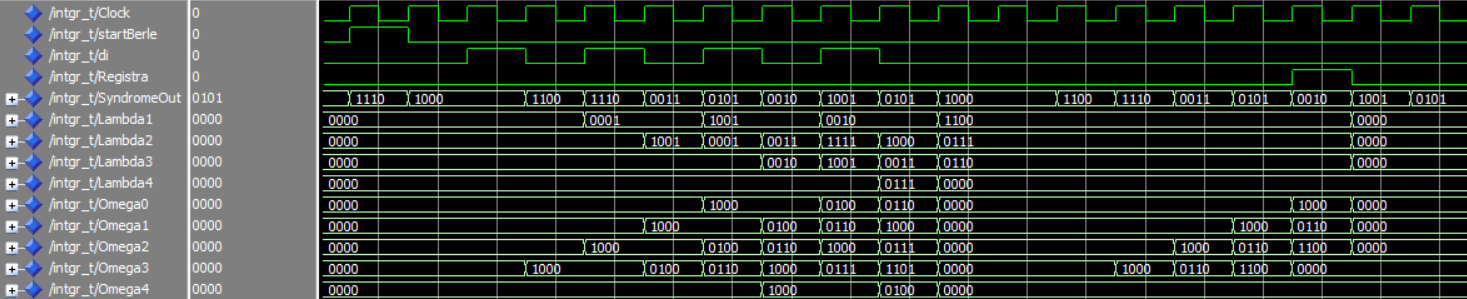
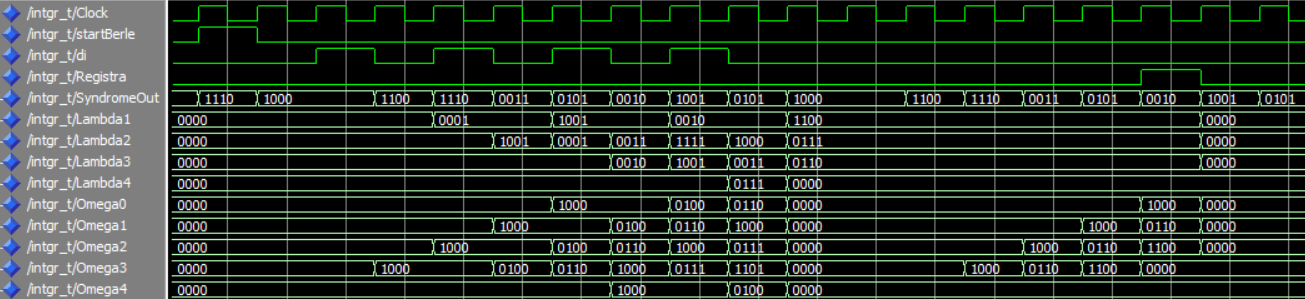
Trimmed all simulations, fixed all wrong doings in the world, wrote viterbi and conv execution

Changed region(s): [[0.0, 0.0, 1.0, 1.0], [0.7356, 0.6622, 0.9502, 0.9331]]

diff --git a/Documentos/relatorio/licy-execucao.tex b/Documentos/relatorio/licy-execucao.tex
@@ -125,21 +125,38 @@
 	
 	\subsection{Codificador Convolucional}	
 	
+	O codificador convolucional foi baseado no esquema corrigido da norma em \autoref{figure:convolutional-schematics}, com seis registradores representando a janela deslizante e o \textit{exclusive OR} dos geradores polinomiais.
 	
+	Nesse módulo, existe uma grande diferença da vazão da mensagem do \textit{Interleaver} com a vazão suportada pelo Codificador Convolucional. A figura \autoref{figure:integration-encoder} mostra que o entrelaçador fornece 4 \textit{bits}/clock enquanto o convolucional apenas consome 1 \textit{bit}/clock. Essa diferença foi tratada utilizando um módulo chamado PISO (Parallel Input to Serial Output), que transforma os dados paralelos em seriais, desde que o \textit{clock} do convolucional seja mais rápido. Mais detalhes com relação a integração entre componentes do codificador na \autoref{section:execution-integration-encoder-speeds}.
+
+	Ainda existe outro módulo que insere uma cadeia de 6 \textit{bits} zeros entre o cabeçalho e a mensagem. Isso reinicia o Convolucional, garantindo que o estado inicial seja "000000", estado conhecido posterior decodificação. A implementação é simples: processa as 30 primeiras palavras e depois envia os zeros via um registrador de deslocamento.
 	
-	O convolutional encoder foi implementado a partir de seis registradores representando a janela deslizante mencionada na metodologia e xor dos valores dos geradores polinomiais.
-	Vale mencionar que existe um tratamento específico dos dados que saem do interleaver antes de entrar no convolutional encoder que consiste em dois módulos. Um módulo lida com o fato de que o interleaver tem saída de palavra por palavra, ou seja, de quatro em quatro bits e a entrada do convolutional encoder deve ser bit por bit. Ele transforma os dados de paralelos para seriais.
-	O outro módulo insere uma cadeia de 6 bits zeros entre o header e o interleaver. Garantindo que o estado inicial conhecido seja “000000” para os dados serem posteriormente decodificados. Esse módulo conta as 30 (tamanho do header) primeiras palavras recebidas. Após atingir o fim do header a entrada começa a passar por um registrador de deslocamento de 6 bits inicialmente zerado.
+	\subsubsection{\textit{Puncture}}
 	
-	Puncture:
+	Para realizar o \textit{puncture} de $\frac{1}{4}$ o valor A é mantido pelo tempo equivalente a dois \textit{clocks} do próximo módulo e o valor de B por mais dois \textit{clocks}. Seguindo o especificado na metodologia.
 	
-	Para realizar o puncture de $\frac{1}{4}$ o valor A é mantido pelo tempo equivalente a dois clocks do próximo módulo e o valor de B por mais dois \textit{}. Seguindo o que foi especificado na metodologia.
+	A simulação de todas operações descritas encontra-se abaixo:
+	
+	\begin{figure}[h]
+		\caption{\label{figure:convolutional-simulation}Simulação do Codificador Convolucional. Nota-se a forma que ele serializa os dados do \textit{Interleaver} em ccEncoderInput antes de utilizá-los, para gerar a saída em ccEncoderOutput.}
+		\centering
+		\includegraphics[width=1\textwidth]{convolutional/simulation.png}
+		\legend{Fonte: Autores.}
+	\end{figure}
 	
 	\subsection{Codificador Manchester}
 	
-	A arquitetura da codificação de Manchester segue o mesmo modelo explicado na Metologia. Duas entradas: \textit{clock} e mensagem, recebem a operação lógica XOR e retornam o código.
+	A arquitetura da codificação de Manchester segue o mesmo modelo explicado na Metologia. Duas entradas: \textit{clock} e mensagem, recebem a operação lógica XOR e retornam o código. A simulação do componente está abaixo:
 	
-	\subsection{Integração do Codificador}
+	\begin{figure}[h]
+		\caption{\label{figure:manchester-encoder-simulation}Simulação do Codificador Manchester.}
+		\centering
+		\includegraphics[width=0.6\textheight]{manchester/simulation-encoder.png}
+		\legend{Fonte: Autores.}
+	\end{figure}
+	
+	
+	\subsection{Integração do Codificador}\label{section:execution-integration-encoder-speeds}
 	
 	Com exceção da UART, o projeto teve o
 	Com intuito de evitar a utilização de \textit{buffers} entre os componentes, 
@@ -206,17 +223,41 @@
 		\includegraphics[width=0.4\textheight]{manchester/decoder-flow.pdf}
 		\legend{Fonte: Autores.}
 	\end{figure}
-	
+
+	A simulação do componente encontra-se abaixo na \autoref{figure:manchester-decoder-simulation}, e a arquitetura implementada no programa Altera Quartus no Apêndice na \autoref{figure:manchester-decoder-rtl}.
+
+	\begin{figure}[h]
+		\caption{\label{figure:manchester-decoder-simulation}Simulação do Decodificador Manchester.}
+		\centering
+		\includegraphics[width=0.6\textheight]{manchester/simulation-decoder.png}
+		\legend{Fonte: Autores.}
+	\end{figure}
 	
 	\subsection{Decodificador Viterbi Fangled}
 	
-	Os dados são transformados de seriais paralelos de 4 em 4 para encaixarem com a entrada do fangled viterbi decoder
-	Para decodificação dos dados fornecidos pelo codificador convolucional foi utilizado o fangled  viterbi decoder. Ele é uma versão simplificada do viterbi decoder. Utiliza menos memória, e menos processamento, é mais veloz porém tem capacidade de detecção e correção de erro muito menor. A capacidade de correção de erro é de um bit a cada quatro dado que o puncture do convolutional é de $\frac{1}{4}$.
-	Branch Metrics: A entrada é composta por AABB. Calcula-se a distância entre o primeiro A com o primeiro B e todas as possíveis combinações de bits (00, 01, 10, 11). A distância é calculada do mesmo modo para o segundo A e o segundo B recebidos. Isso foi feito a partir da operação xor entre a entrada e as combinações. As distâncias de uma mesma combinação de bits é posteriormente somada.
-	Trellis Table: Dado o estado atual, é um look up table que os dois valores possíveis de entrada pro viterbi. Uma delas é caso o bit que foi codificado fosse um e o outro caso é se ele fosse zero.
-	Path Metrics: O path metrics recebe a informação de quais as duas possíveis entradas do Trellis Table e quais as distâncias do branch metrics. Com esses dados o path metrics identifica qual o bit mais provável de ter sido codificado. Definindo, assim, qual o próximo estado e a saída do viterbi decoder. 
-	O valor do próximo estado é armazenado para ser posteriormente utilizado pelo Trellis Table.
-	Caso as distâncias a serem consideradas forem iguais, o valor da saída é escolhido como sendo zero e o próximo estado é definido de acordo com isso. Segue-se a ideia do fangled viterbi decoder que escolhe uma saída, e consequentemente o próximo estado, ao acaso. 
+	O Decodificador Viterbi tem o mesmo problema do Codificador Convolucional: as vazões de entrada e saída são diferentes. Deve-se então converter dados seriais para paralelos utilizando um módulo SIPO (Serial Input Parallel Output). Os \textit{clocks} também devem ser ajustados de acordo. Mais detalhes com relação a integração entre componentes do decodificador na \autoref{section:execution-integration-decoder-speeds}.
+	
+	Como especificado na metodologia (\autoref{section:method-viterbi}), a implementação Viterbi utilizada é simplificada e se chama \textit{Fangled}. Consome menos memória e processamento e é mais veloz, porém tem capacidade de detecção e correção de erro muito menor. O \textit{Fangled} Viterbi corrige no mínimo um \textit{bit} a cada quatro recebidos, devido à sua arquitetura de taxa $\frac{1}{4}$.
+
+	\subsubsection{\textit{Branch Metrics}}
+	A entrada é composta por AABB. Calcula-se a distância entre o primeiro A com o primeiro B e todas as possíveis combinações de bits (00, 01, 10, 11). A distância é calculada do mesmo modo para o segundo A e o segundo B recebidos. A operação feita entre os dados é XOR. As distâncias de uma mesma combinação de bits é posteriormente somada.
+	
+	\subsubsection{Tabela Trellis}
+	Dado o estado atual, é uma LUT (\textit{Look Up Table}) com dois valores possíveis de entrada para o Viterbi. Possui duas saídas para cada entrada: uma quando o \textit{bit} é um e outra quando o \textit{bit} é zero.
+	
+	\subsubsection{\textit{Path Metrics}}
+	O PM (\textit{Path Metrics}) recebe a informação de quais são as duas possíveis entradas da Tabela Trellis e quais as distâncias do \textit{Branch Metrics}. Com esses dados o PM identifica qual o bit mais provável de ter sido codificado. Definindo assim, qual o próximo estado e a saída do decodificador Viterbi. O valor do próximo estado é armazenado para ser posteriormente utilizado pela Tabela Trellis.
+	
+	Caso as distâncias consideradas forem iguais, o valor da saída é escolhido como sendo zero e o próximo estado é definido de acordo. No caso do \textit{Fangled} Viterbi, essa escolha deverá ser realizada ao acaso.
+	
+	A simulação do módulo de decodificação Viterbi \textit{Fangled} se encontra na \autoref{figure:viterbi-simulation} abaixo. A arquitetura do componente RTL encontra-se no Apêndice, na \autoref{figure:viterbi-rtl}.
+	
+	\begin{figure}[h]
+		\caption{\label{figure:viterbi-simulation}Simulação do funcionamento do Decodificador Viterbi \textit{Fangled}. Observa-se que o componente apenas conclui qual o símbolo recebido após quatro ciclos.}
+		\centering
+		\includegraphics[width=0.6\textheight]{viterbi/simulation.png}
+		\legend{Fonte: Autores.}
+	\end{figure}
 	
 	
 	\subsection{Decodificador Reed Solomon}
@@ -289,9 +330,9 @@
 		\legend{Fonte: Autores.}
 	\end{chart}
 	
-	\subsection{Integração do Decodificador}
+	\subsection{Integração do Decodificador}\label{section:execution-integration-decoder-speeds}
 	%FAZER INTEGRACAO DO DECODIFICADOR
-
+	
 	\begin{figure}[h]
 		\caption{\label{figure:integration-decoder}Relação entre vazão de \textit{bits} entre cada módulo do Decodificador.}
 		\centering
@@ -359,14 +400,14 @@
 	Devido a falta de conhecimento do comportamento de transistores e da resposta de todos os componentes a frequência de 200kHz, foram projetados vários circuitos que não satisfaziam o formato de onda desejado. Abaixo são exemplificadas algumas versões implementadas, juntamente com os motivos de terem sido abandonadas.
 	
 	\subsubsection{Filtro da Ponta de Prova}
-	\begin{figure}[htb]
+	\begin{figure}[h]
 		\caption{\label{fig_transmitter_lify_circuit_fail0}Circuito de transmissão com filtro de ponta de prova.}
 		\centering		%  trim={<left> <lower> <right> <upper>} 
 		\includegraphics[width=0.5\textwidth, trim={2cm 1cm 2cm 2cm}, clip]{circuits/transmitter_fail0.pdf}
 		\legend{Fonte: Autores.}
 	\end{figure}
 	O primeiro problema que o projeto do transmissor encontrou foi o comportamento de subamortecimento nos terminais do LED. Ele utiliza um circuito semelhante ao utilizado em pontas de provas para filtrar ruídos e é conectado em série com a entrada do transmissor, como visto na \autoref{fig_transmitter_lify_circuit_fail0}.
-	\begin{chart}[htb]
+	\begin{chart}[h]
 		\caption{\label{fig_transmitter_lify_circuit_fail0_rl}Comportamento do circuito de transmissão com filtro de ponta de prova em série com a entrada. A onda azul é saída do gerador de funções enquanto a onda amarela é a tensão submetida ao LED. Observa-se o comportamento de subamortecimento em ambas.}
 		\centering		%  trim={<left> <lower> <right> <upper>} 
 		\includegraphics[width=0.5\textwidth, trim={30cm 0cm 2cm 40cm}, clip]{circuits/photos/TX_probe_result.jpg}
@@ -426,7 +467,7 @@
 	\subsection{Recepção Luminosa}
 	Para o recebimento luminoso, foi utilizado um circuito da "Application Notes" da \cite{datasheet-opa380}, simplificado e esquematizado na \autoref{fig_transimpedance_amp_complex_outer}, diferente do utilizado na Metodologia (\autoref{figure:transimpedance-amp-simple}). Com $V_{bias} = 2.5V$ polarizando reversamente o fotodiodo, uma resposta mais confiável era recebida pelo componente. O valor escolhido de R1 e R2 foram  1M$\Omega$ e 100k$\Omega$.
 	
-	\begin{figure}[htb]
+	\begin{figure}[h]
 		\caption{\label{fig_transimpedance_amp_complex_outer}Circuito e saída de um amplificador de impedâncias. No circuito, o fotodiodo é reversamente polarizado por $V_{bias}$. No osciloscópio, a saída está marcada em amarelo enquanto a saída do LED está em verde.}
 		\begin{subfigure}{.5\textwidth}
 			\centering
@@ -453,7 +494,7 @@
 	
 	A voltagem de referência do comparador deve ser a mesma que a voltagem $V_{ref}$ do filtro passa-baixas, provenientes do divisor resistivo. O circuito final integrado do receptor pode é analisado na \autoref{fig_receiver_lify_circuit_final}.
 
-	\begin{figure}[htb]
+	\begin{figure}[h]
 		\caption{\label{fig_receiver_lify_circuit_final}Circuito esquemático final de recepção de dados LiCy.}
 		\centering
 		\includegraphics[width=0.7\textwidth, trim={0cm 1cm 0cm 1cm}, clip]{circuits/receiver_lify_final.pdf}
@@ -462,7 +503,7 @@
 	
 	Os testes realizados foram bem sucedidos e resultaram na onda da \autoref{fig_receiver_lify_circuit_final_r1}. Nela é possível observar a medição do período da onda resultante convertida, que foi 4.88us, muito próximo de 5us, período para 200kHz.
 	
-	\begin{chart}[htb]
+	\begin{chart}[h]
 		\caption{\label{fig_receiver_lify_circuit_final_r1}Saída do transmissor em verde e saída digital convertida do receptor em amarelo. É possível observar uma defasagem de 90$\degree$ em relação às ondas.}
 		\centering
 		\includegraphics[width=0.4\textwidth, trim={36cm 30cm 60cm 40cm}, clip]{circuits/photos/TXRX_final_fixed.jpg}

diff --git a/Documentos/relatorio/licy-metodologia.tex b/Documentos/relatorio/licy-metodologia.tex
@@ -287,7 +287,7 @@
 	
 	\subsubsection{Código Convolutional}
 	
-	O módulo de código convolucional é um código de correção de erros que converte a mensagem em símbolos de paridade. Ele se utiliza de uma janela deslizante para receber e armazenar uma parte dos dados de entrada. Alguns subgrupos de \textit{bits} dentro da janela, definidos pelos geradores polinomiais, são utilizados para gerar os \textit{bits} de paridade. A operação de \textit{exclusive or} entre os \textit{bits} de um subgrupo gera um \textit{bit} de paridade. A norma define os parâmetros do código na \autoref{tabela_params_convolutional} de acordo com a camada PHY I. 
+	O módulo de código convolucional é um código de correção de erros que converte a mensagem em símbolos de paridade. Ele se utiliza de uma janela deslizante para receber e armazenar uma parte dos dados de entrada. Alguns subgrupos de \textit{bits} dentro da janela, definidos pelos geradores polinomiais, são utilizados para gerar os \textit{bits} de paridade. A operação de \textit{exclusive or} entre os \textit{bits} de um subgrupo gera um \textit{bit} de paridade. A norma define os parâmetros do código na \autoref{table:convolutional-params} de acordo com a camada PHY I. 
 	
 	\begin{table}[ht]
 		\caption{Parâmetros do Código Convolucional da camada PHY I.}
@@ -299,27 +299,27 @@
 			R & 1/4 & taxa de \textit{bits} / paridade \\ 
 			G & $g_{0} = 133_{8}$; $g_{1} = 171_{8}$; $g_{2} = 165_{8}$ & polinômio gerador \\ \hline
 		\end{tabular}
-		\label{tabela_params_convolutional}
+		\label{table:convolutional-params}
 		\legend{Fonte: Autores.}
 	\end{table}
 
-	No documento da norma há uma figura que especifica a implementação do codificador. Estudando-a em detalhes, foram encontrados erros na figura, pois os \textit{bits} utilizados para gerar as paridades eram extraídos de geradores polinomiais errados. A \autoref{schematics_convolutional} esquematiza um codificador com os polinômios corrigidos. A cada \textit{bit} $X_{n}$ de entrada, o código convolucional gera três paridades: $A_{0}$, $B_{0}$ e $C_{0}$, por isso 1/3.
+	No documento da norma há uma figura que especifica a implementação do codificador. Estudando-a em detalhes, foram encontrados erros na figura, pois os \textit{bits} utilizados para gerar as paridades eram extraídos de geradores polinomiais errados. A \autoref{figure:convolutional-schematics} esquematiza um codificador com os polinômios corrigidos. A cada \textit{bit} $X_{n}$ de entrada, o código convolucional gera três paridades: $A_{0}$, $B_{0}$ e $C_{0}$, por isso 1/3.
 	\begin{figure}[htb]
-		\caption{\label{schematics_convolutional}Esquemático do Codificador Convolucional com taxa 1/3, os quadrados representam registradores e os retângulos os somadores.}
+		\caption{\label{figure:convolutional-schematics}Esquemático do Codificador Convolucional com taxa 1/3, os quadrados representam registradores e os retângulos os somadores.}
 		\centering
 		\includegraphics[width=0.6\textheight]{convolutional/schematics.pdf}
 		\legend{Fonte: Autores}
 	\end{figure}
-	Nota-se que o codificador especificado pela norma tem taxa 1/3, e não de 1/4, como especificado na norma. Para obter uma taxa de 1/4 deve-se realizar operação de \textit{puncture} no código de taxa 1/3 para um de taxa 1/2, como mostrado na \autoref{schematics_convolutional_puncture}, e depois usando um código de repetição como na \autoref{schematics_convolutional_repetition}.
+	Nota-se que o codificador especificado pela norma tem taxa 1/3, e não de 1/4, como especificado na norma. Para obter uma taxa de 1/4 deve-se realizar operação de \textit{puncture} no código de taxa 1/3 para um de taxa 1/2, como mostrado na \autoref{figure:convolutional-puncture}, e depois usando um código de repetição como na \autoref{figure:convolutional-repetition}.
 	
 	\begin{figure}[htb]
-		\caption{\label{schematics_convolutional_puncture}Padrão de \textit{puncture} para obter código a taxa 1/2.}
+		\caption{\label{figure:convolutional-puncture}Padrão de \textit{puncture} para obter código a taxa 1/2.}
 		\centering
 		\includegraphics[width=0.3\textheight]{convolutional/puncture.pdf}
 		\legend{Fonte: Autores.}
 	\end{figure}
 	\begin{figure}[htb]
-		\caption{\label{schematics_convolutional_repetition}Padrão de repetição utilizado para obter um código com taxa 1/4.}
+		\caption{\label{figure:convolutional-repetition}Padrão de repetição utilizado para obter um código com taxa 1/4.}
 		\centering
 		\includegraphics[width=0.3\textheight]{convolutional/repetition.pdf}
 		\legend{Fonte: Autores.}
@@ -361,15 +361,15 @@
 	
 	A identificação de erros pode acontecer de mais de uma forma. É possível, por exemplo, criar uma máquina de estados que identifique a entrada de três \textit{bits} idênticos consecutivos, o que sinaliza erro no caso do código de Manchester. Um dos motivos para esse erro pode ser um código deslocado em até metade de um ciclo do \textit{clock} da entrada do decodificador, e neste caso pode-se corrigir o erro através de uma correção simples, como um \textit{shift register}. Caso o número de \textit{bits} idênticos consecutivos seja superior a dois, a correção do erro se torna muito mais trabalhosa, motivo pelo qual esse tipo de correção não foi abordado neste estudo.
 	
-	\subsubsection{Decodificação Viterbi}
+	\subsubsection{Decodificação Viterbi}\label{section:method-viterbi}
 	
 	A seção a seguir explica os conceitos fundamentais para o entendimento do decodificador Viterbi: máquinas de estado, tabela Trellis, o algoritmo de decodificação \textit{Viterbi} e sua simplificação \textit{Fangled} Viterbi.
 	
 	\paragraph{Máquina de Estados}
 	
-	A visão de máquinas de estado é uma forma elegante para explicar o funcionamento do transmissor (e do receptor) e é explicada a seguir. O transmissor começa no estado inicial (marcado como em vermelho na \autoref{schematics_convolutional_states}) e processa um \textit{bit} de cada vez. Para cada \textit{bit} de mensagem, há a transição do estado atual para um novo dependendo do valor do \textit{bit} de entrada, e o envio da paridade no arco correspondente. A nomenclatura tomada na figura é a mesma que utilizada em máquinas de Mealy: X/Y, onde X representa a entrada e Y representa a saída.
+	A visão de máquinas de estado é uma forma elegante para explicar o funcionamento do transmissor (e do receptor) e é explicada a seguir. O transmissor começa no estado inicial (marcado como em vermelho na \autoref{figure:viterbi-states}) e processa um \textit{bit} de cada vez. Para cada \textit{bit} de mensagem, há a transição do estado atual para um novo dependendo do valor do \textit{bit} de entrada, e o envio da paridade no arco correspondente. A nomenclatura tomada na figura é a mesma que utilizada em máquinas de Mealy: X/Y, onde X representa a entrada e Y representa a saída.
 	\begin{figure}[htb]
-		\caption{\label{schematics_convolutional_states}Visão de máquina de estados de um codificador convolucional.}
+		\caption{\label{figure:viterbi-states}Visão de máquina de estados de um codificador convolucional.}
 		\centering
 		\includegraphics[width=0.25\textheight]{viterbi/states.pdf}
 		\legend{Fonte: Autores.}
@@ -378,9 +378,9 @@
 	
 	\paragraph{Tabela Trellis}
 
-	Como mencionado acima, o receptor deve determinar a \textbf{melhor} sequência de estados que o transmissor passou. Essa sequência forma um caminho dentro da máquina de estados, que pode ser deduzido pelo decodificador. Trellis é a estrutura derivada da máquina de estados, ela ajuda o decodificador a escolher os melhores caminhos para recuperar a mensagem. Um exemplo de tabela Trellis é dado na \autoref{schematics_convolutional_states}.
+	Como mencionado acima, o receptor deve determinar a \textbf{melhor} sequência de estados que o transmissor passou. Essa sequência forma um caminho dentro da máquina de estados, que pode ser deduzido pelo decodificador. Trellis é a estrutura derivada da máquina de estados, ela ajuda o decodificador a escolher os melhores caminhos para recuperar a mensagem. Um exemplo de tabela Trellis é dado na \autoref{figure:viterbi-trellis}.
 	\begin{figure}[htb]
-		\caption{\label{schematics_convolutional_trellis}A tabela Trellis é útil para entender o processo de decodificação de uma máquina de estados.}
+		\caption{\label{figure:viterbi-trellis}A tabela Trellis é útil para entender o processo de decodificação de uma máquina de estados.}
 		\centering
 		\includegraphics[width=0.6\textheight,trim={0cm 18cm 0cm 2.5cm},clip]{viterbi/trellis.pdf}
 		\legend{Fonte: \cite{mit-convolutional}}
@@ -390,7 +390,9 @@
 	O decodificador deve identificar o melhor caminho utilizando a tabela Trellis, explicando por meio dela a sequência de paridades observadas e possivelmente corrompidas. Esse decodificador é chamado de Viterbi.
 	
 	\paragraph{Algoritmo}
-	A métrica de caminho calcula as distâncias entre a entrada e todas as possíveis entradas. Em alguns casos ela também é conhecida como distância de Hamming.
+	O algoritmo de decodificação Viterbi é composto por três componentes principais: a métrica de ramificação (BM), a métrica de caminho (PM) e o \textit{Traceback Unit}.
+	
+	A métrica de ramificação calcula as distâncias entre a entrada e todas as possíveis entradas. Em alguns casos ela também é conhecida como distância de Hamming.
 	
 	A métrica de caminho calcula todos caminhos possíveis na tabela Trellis. Esse módulo é composto por múltiplos submódulos chamados ACS (Add, Compare and Select), que representam um estado e realizam a decisão de qual será o próximo estado. Após realizar a decisão, o ACS grava o caminho até o próximo estado e a distância acumulada na memória do \textit{Traceback Unit}. Esse processo se repete à medida que cada \textit{bit} da mensagem entra no Viterbi e apenas acaba quando a mensagem termina. 
 	

diff --git a/Documentos/relatorio/licy.tex b/Documentos/relatorio/licy.tex
@@ -248,6 +248,7 @@
 		\item[AC] Corrente Alternada (do inglês Alternating Current)
 		\item[ACS] Adicionar, Comparar e Selecionar (do inglês Add, Compare and Select)
 		\item[ADC] Conversor Digital Analógico (do inglês Analog Digital Converter)
+		\item[BM] Métrica de Ramificação (do inglês Branch Metrics)
 		\item[DC] Corrente Contínua (do inglês Direct Current)
 		\item[EAP] Estrutura Analítica de Projeto
 		\item[FET] Transistor de Efeito de Campo (do inglês Field Effect Transistor)
@@ -260,17 +261,21 @@
 		\item[IEEE] Instituto dos Engenheiros Elétricos e Eletrônicos (do inglês Institute of Electrical and Electronics Engineers)
 		\item[IP] Propriedade Intelectual (do inglês Intellectual Property)
 		\item[LED] Diodo Emissor de Luz (do inglês Light Emitting Diode)
+		\item[LUT] Tabela de Pesquisa (do inglês Look Up Table)
 		\item[MAC] Controle de Acesso de Mídia (do inglês Media Access Control)
 		\item[MCS] Esquema de Modulação e Codificação (do inglês Modulation and Coding Scheme)
 		\item[MOSFET] Metal Oxide Semiconductor Field Effect Transistor
 		\item[OOK] On-off Keying
 		\item[PHR] Cabeçalho do PHY (do inglês PHY Header)
+		\item[PISO] Entrada Paralela para Saída Serial (do inglês Parallel Input to Serial Output)
+		\item[PM] Métrica de Caminho (do inglês Path Metrics)
 		\item[PPDU] Unidade de Dados da Camada Física (do inglês Physical Layer Data Unit)
 		\item[PSDU] Unidade de Serviço de dados PHY I (do inglês PHY Service Data Unit)
 		\item[RLL] Comprimento de Execução Limitado (do inglês Run Length Limited)
 		\item[RS] Reed Solomon
 		\item[RTL] Nível de Transferência de Registradores (do inglês Register Transfer Level)
 		\item[SHR] Cabeçalho de Sincronização (do inglês Synchronization Header)
+		\item[SIPO] Entrada Serial para Saída Paralela (do inglês Serial Input to Parallel Output)
 		\item[TDP] Padrão Dependente de Topologia (do inglês Topology Dependant Pattern)
 		\item[TTL] Lógica de Transistor-Transistor (do inglês Transistor-Transistor Logic)
 		\item[UART] Receptor/Transmissor Asíncrono Universal (do inglês Universal Asynchronous Receiver/Transmitter)

diff --git a/Documentos/relatorio/licy-resumos.tex b/Documentos/relatorio/licy-resumos.tex
@@ -8,7 +8,9 @@
 \setlength{\absparsep}{18pt} % ajusta o espaçamento dos parágrafos do resumo
 \begin{resumo}
 	O presente trabalho analisa a comunicação por luz visível, dentro do contexto da norma IEEE 802.15.7. Verificaram-se, pois, alternativas para uma implantação da primeira camada física definida nesta norma, ressaltados os mecanismos de codificação, decodificação e correção de erros, transmissão e recepção pela luz visível. A partir desta análise, foi definido um projeto, cuja execução final gerou um módulo receptor e um módulo transmissor, entre os quais acontece transferência de dados pela luz, sem presença de cabeamento entre os dois. Com efeito, os resultados finais indicam a viabilidade desse tipo de comunicação para projetos futuros, com destaque para aplicações no uso doméstico ou privado. 
-	
+			
+	\vspace{\onelineskip}
+	\noindent 
 	\textbf{Palavras-chave}: comunicação por luz visível. Li-Fi. IEEE 802.15.7. PHY I.
 \end{resumo}
 
@@ -18,8 +20,7 @@
 		The current project analyses the concept of visible light communication within the context of the IEEE 802.15.7 standard. The main activities included the assessment of alternatives for the deployment of the first physical layer defined by this standard. Therefore, methods concerning encoding, decoding, error correction, transmission and reception through visible light were emphasized. As a result of the cited examination, there is the specification of the project. Its final execution has generated reception and transmission units, which are able to transfer data without any wiring system. Effectively, the final deliverables point out the viability of this type of communication for future projects, highlighting domestic and private applications.
 		
 		\vspace{\onelineskip}
-		
 		\noindent 
-		\textbf{Keywords}: latex. abntex. text editoration.
+		\textbf{Keywords}: visual light communication. Li-Fi. IEEE 802.15.7. PHY I.
 	\end{otherlanguage*}
 \end{resumo}
